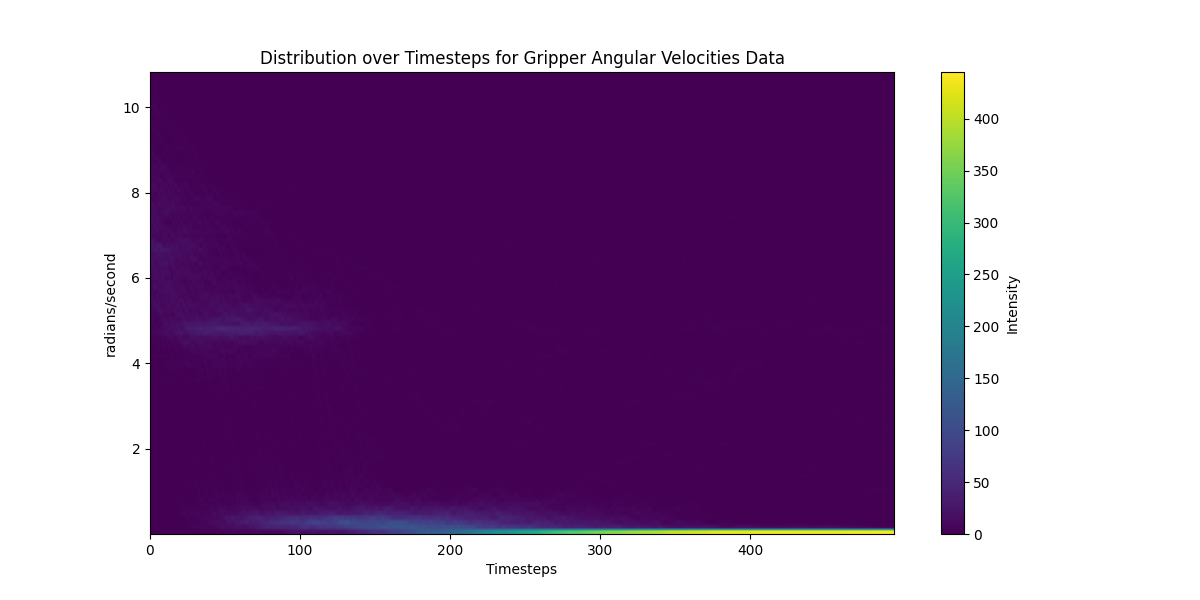
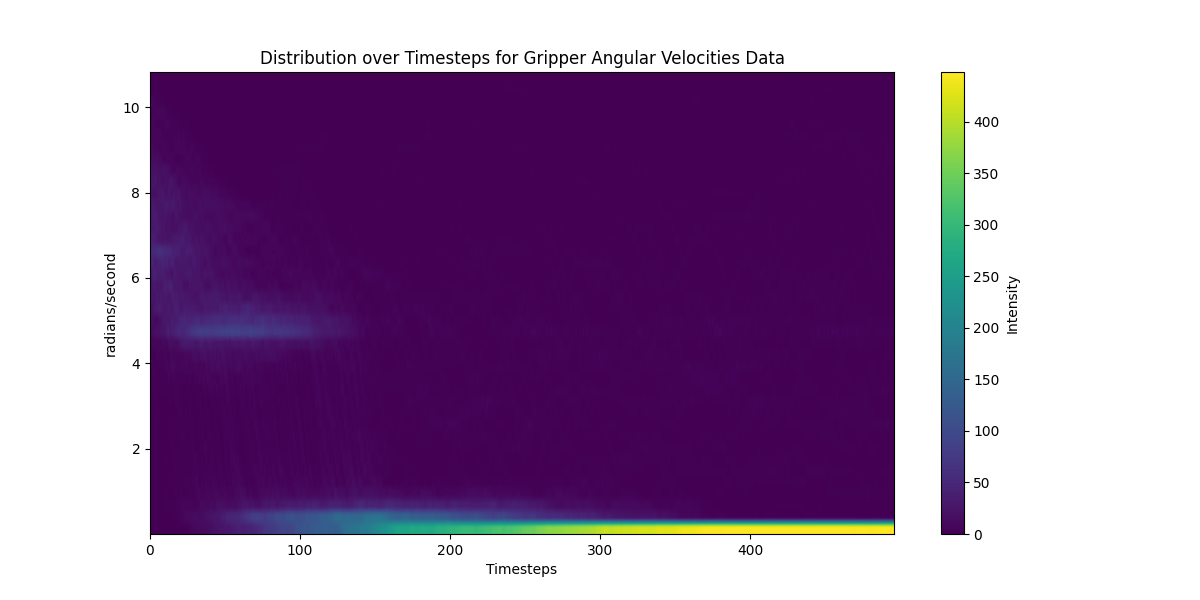
angular data figs updated

diff --git a/eps_graph.py b/eps_graph.py
@@ -103,7 +103,7 @@ plot_distribution(distribution, zones, 'Closest Points', ylabel='meter')
 distribution, zones = calculate_distribution(position_actions)
 plot_distribution(distribution, zones, 'Position Actions')
 
-distribution, zones = calculate_distribution(orientation_actions)
+distribution, zones = calculate_distribution(orientation_actions, num_zones=40)
 plot_distribution(distribution, zones, 'Orientation Actions')
 
 distribution, zones = calculate_distribution(gripper_linear_velocities)
@@ -112,7 +112,7 @@ plot_distribution(distribution, zones, 'Gripper Linear Velocities', ylabel='mete
 distribution, zones = calculate_distribution(quaternion_differences)
 plot_distribution(distribution, zones, 'Quaternion Differences', ylabel='radians')
 
-distribution, zones = calculate_distribution(gripper_angular_velocities)
+distribution, zones = calculate_distribution(gripper_angular_velocities, num_zones=40)
 plot_distribution(distribution, zones, 'Gripper Angular Velocities', ylabel='radians/second')
 
 print("Plot created successfully!")
